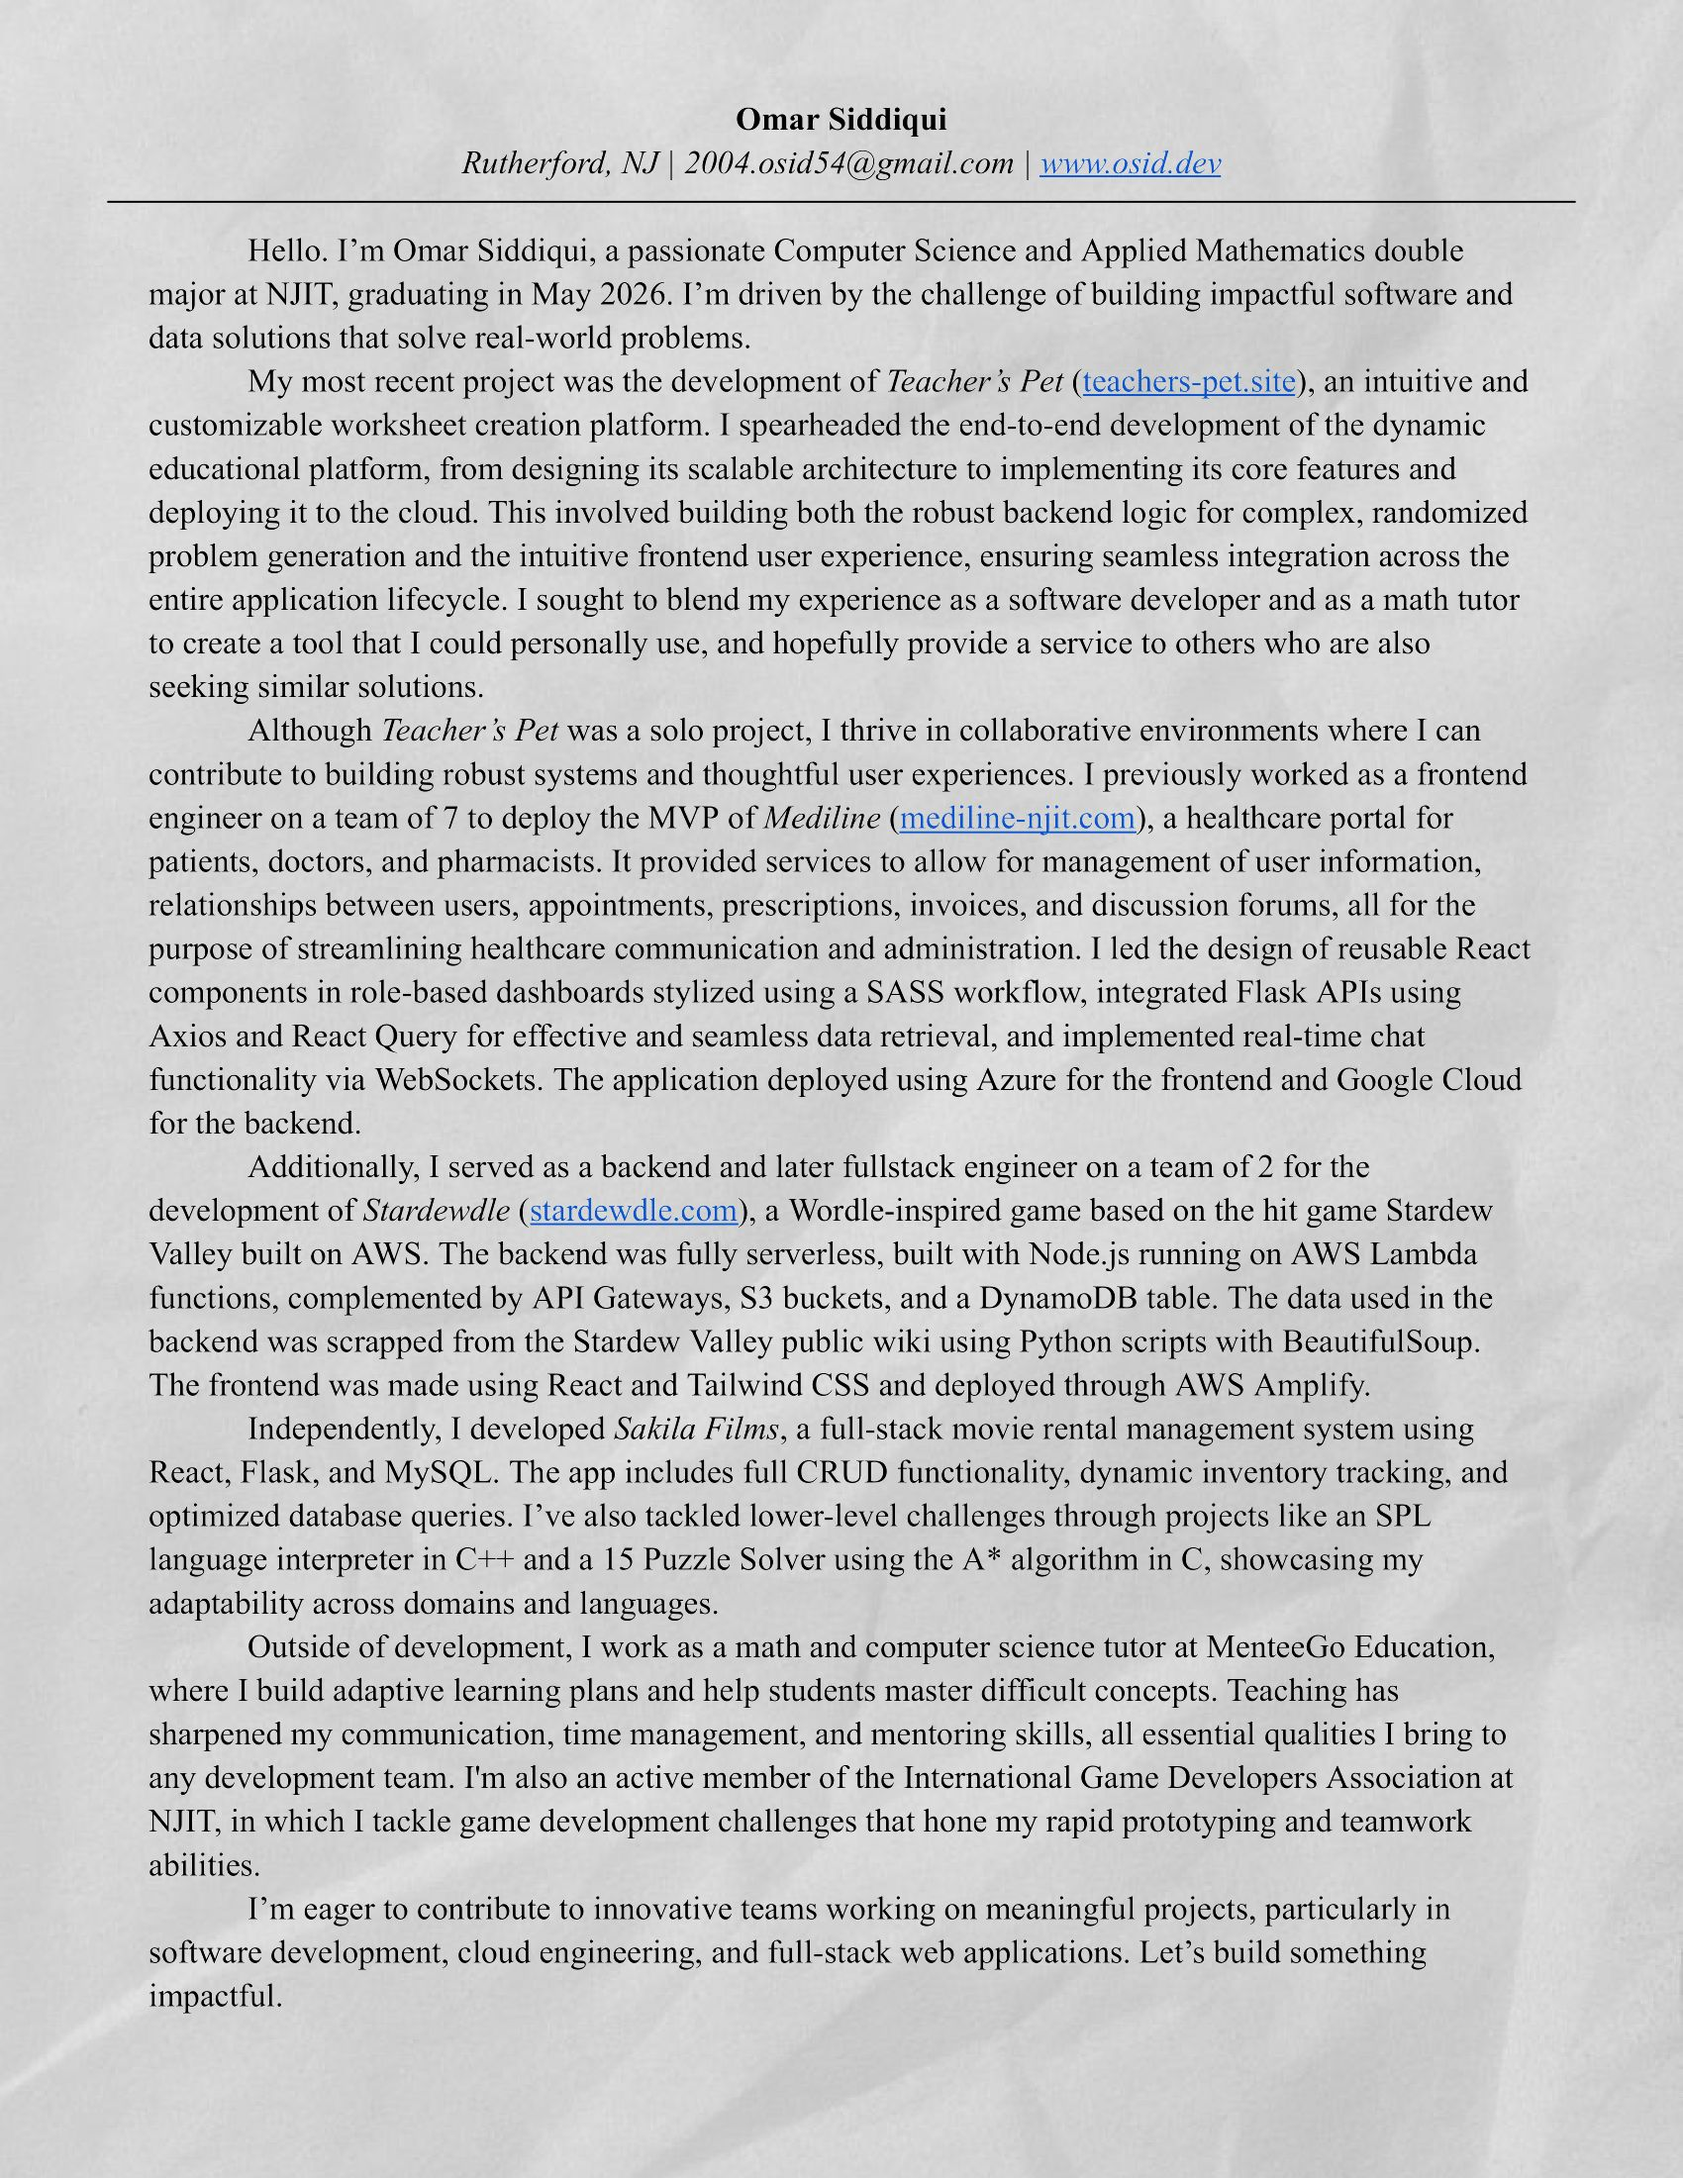
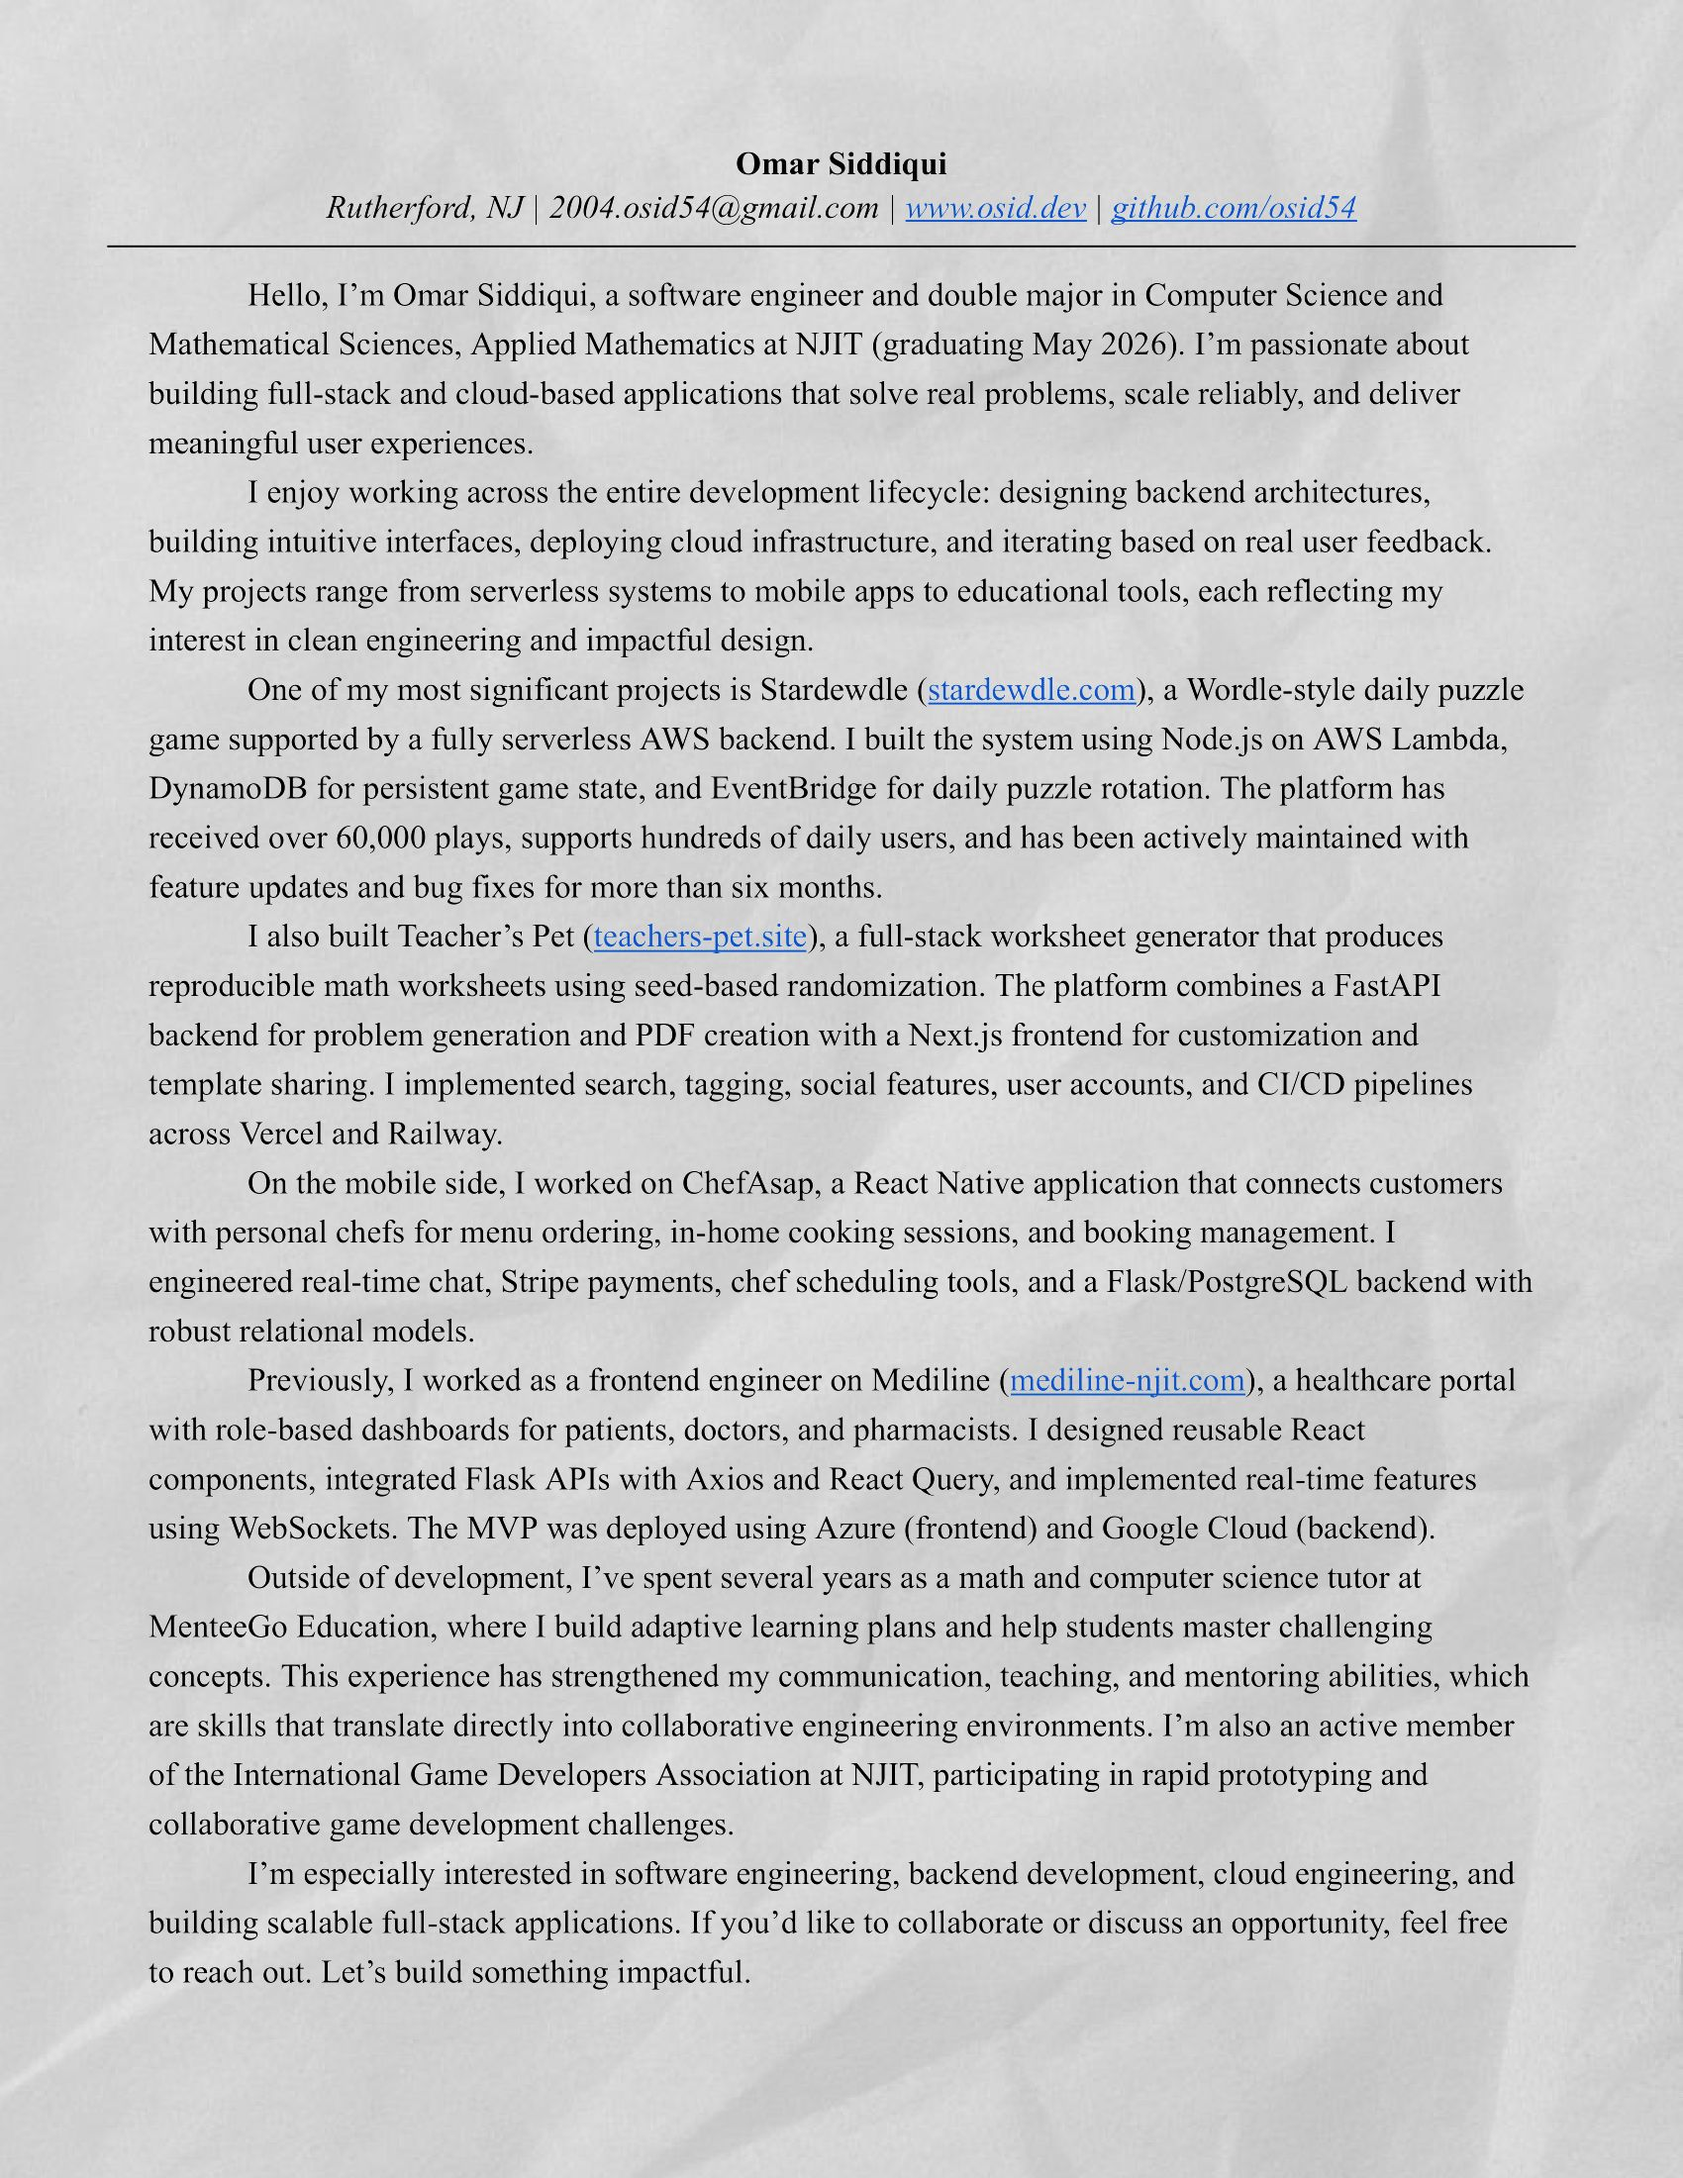
Updated resume + small style changes

Changed region(s): [[0.0935, 0.0309, 0.9041, 0.9273]]

diff --git a/src/components/BulletinBoard.jsx b/src/components/BulletinBoard.jsx
@@ -2,7 +2,6 @@ import React, { useState } from 'react';
 import PaperCard from './PaperCard';
 import GalleryModal from './GalleryModal';
 import PDFModal from './PDFModal';
-import { motion } from 'framer-motion';
 
 const Tooltip = ({ text, x, y, visible }) => {
   if (!visible) return null;
@@ -55,10 +54,9 @@ export default function BulletinBoard() {
 
   return (
     <div
-      className="relative w-[75vw] aspect-[208/125]" // size of bulletin image
+      className="absolute w-[75vw] aspect-[208/125]" // size of bulletin image
     >
       {/* bulletin board */}
-      <motion.div>
         <img
           src={'/assets/bulletinFinal.png'}
           alt={null}
@@ -66,7 +64,6 @@ export default function BulletinBoard() {
           style={{ filter: `drop-shadow(-10px 15px 10px rgba(0, 0, 0, .8))` }}
           draggable="false"
         />
-      </motion.div>
 
       {/* title */}
       <img
@@ -172,12 +169,12 @@ export default function BulletinBoard() {
       {/* skills */}
       <div className="absolute top-[30%] left-[77%] w-full h-full pointer-events-none">
         <img
-          className='absolute top-[1%] left-[-2%] -translate-x-1/2 z-10 h-[4%]'
+          className='absolute top-[3%] left-[1%] -translate-x-1/2 z-10 h-[4%]'
           src='/assets/titles/skills.png'
           alt='Skills'
         />
         {/* languages */}
-        <div className="absolute top-[9%] left-[-10%] w-full h-full pointer-events-none">
+        <div className="absolute top-[9%] left-[-8%] w-full h-full pointer-events-none">
           <PaperCard
             src="/assets/symbols/javascript.png"
             alt="JavaScript"
@@ -431,12 +428,12 @@ export default function BulletinBoard() {
         </div>
       </div>
 
-      { /* certificates */}
+      { /* certifications */}
       <div className="absolute top-[62%] left-[48%] w-full h-full pointer-events-none">
         <img
           className='absolute top-[4%] left-[0%] -translate-x-1/2 z-10 h-[5%]'
-          src='/assets/titles/certificates.png'
-          alt='Certificates'
+          src='/assets/titles/certifications.png'
+          alt='Certifications'
         />
         <PaperCard
           src="/assets/postits/postit3.png"

diff --git a/src/pages/index.js b/src/pages/index.js
@@ -1,36 +1,34 @@
 import BulletinBoard from '../components/BulletinBoard';
-import { motion } from 'framer-motion';
 
 export default function Home() {
   return (
     <div
-      className="relative min-h-screen w-full bg-center bg-cover flex justify-center items-center overflow-hidden"
-      style={{ backgroundImage: "url('/assets/brickWall.jpg')" }}
+      className="relative w-full h-screen bg-center bg-cover flex justify-center items-center overflow-hidden"
+      style={{ backgroundImage: "url('/assets/brickWall.jpg')"}}
     >
-
-      <motion.div>
+      <div className='flex justify-start items-center h-full w-full'>
         <img
           src={'/assets/leaves/leaves1.png'}
           alt={null}
-          className='absolute left-[92%] top-[0%] z-10 h-[130%]'
+          className='relative -left-[34%] top-[5%] z-10 w-[50%] aspect-[181/495]'
           style={{ filter: `drop-shadow(-8px 12px 8px rgba(0, 0, 0, .8))` }}
           draggable="false"
         />
-      </motion.div>
+      </div>
 
       <BulletinBoard />
 
-      <motion.div>
+      <div className='flex justify-start items-center h-full w-full'>
         <img
           src={'/assets/leaves/leaves1.png'}
           alt={null}
-          className='absolute -left-[17%] top-[0%] z-10 h-[130%]'
+          className='relative left-[82%] top-[0%] z-10 w-[50%] aspect-[181/495]'
           style={{ filter: `drop-shadow(-8px 12px 8px rgba(0, 0, 0, .8))` }}
           draggable="false"
         />
-      </motion.div>
+      </div>
     </div>
   );
 }
 //<img className='absolute left-[-17%] z-10 drop-shadow-2xl shadow-black w-[25%]' src='/assets/leaves/leaves1.png' alt='leaves' />
-//<img className = 'absolute left-[90%] z-10 drop-shadow-2xl shadow-black w-[25%]' src='/assets/leaves/leaves1.png' alt='leaves' />
+//<img className = 'absolute left-[90%] z-10 drop-shadow-2xl shadow-black w-[25%]' src='/assets/leaves/leaves1.png' alt='leaves' /> 

diff --git a/src/components/PDFModal.jsx b/src/components/PDFModal.jsx
@@ -24,7 +24,7 @@ const PDFModal = ({ isOpen, onClose, pdfSrc, imageUrl, downloadFileName, bgUrl, 
         </button>
 
         <div
-          className="flex-grow overflow-y-auto mb-4 flex flex-col rounded-lg text-center"
+          className="flex-grow overflow-y-auto mb-4 flex flex-col rounded-lg text-center scrollbar scrollbar-thumb-gray-500 scrollbar-track-transparent"
         >
           {imageUrl ? (
             <img
@@ -42,8 +42,8 @@ const PDFModal = ({ isOpen, onClose, pdfSrc, imageUrl, downloadFileName, bgUrl, 
             <a
               href={isPdfDownload ? pdfSrc : imageUrl}
               download={downloadFileName}
-              className="flex bg-gray-400 rounded-full hover:bg-gray-300 font-semibold text-3xl h-[80%] w-1/2 justify-center items-center text-center cursor-pointer"
-              style={{ fontFamily: 'Architex', backgroundBlendMode: 'overlay' }}
+              className="flex rounded-full bg-gray-500 hover:bg-gray-400 font-semibold text-3xl h-[80%] w-1/2 justify-center items-center text-center cursor-pointer"
+              style={{ fontFamily: 'Architex' }}
             >
               <span 
                 style={{ position: 'relative', top: '5px' }}>

diff --git a/tailwind.config.js b/tailwind.config.js
@@ -10,5 +10,7 @@ module.exports = {
       },
     },
   },
-  plugins: [],
+  plugins: [
+    require('tailwind-scrollbar'),
+  ],
 };

diff --git a/src/styles/globals.css b/src/styles/globals.css
@@ -1,4 +1,5 @@
 @import "tailwindcss";
+@plugin 'tailwind-scrollbar';
 
 @font-face {
   font-family: 'Architex';
